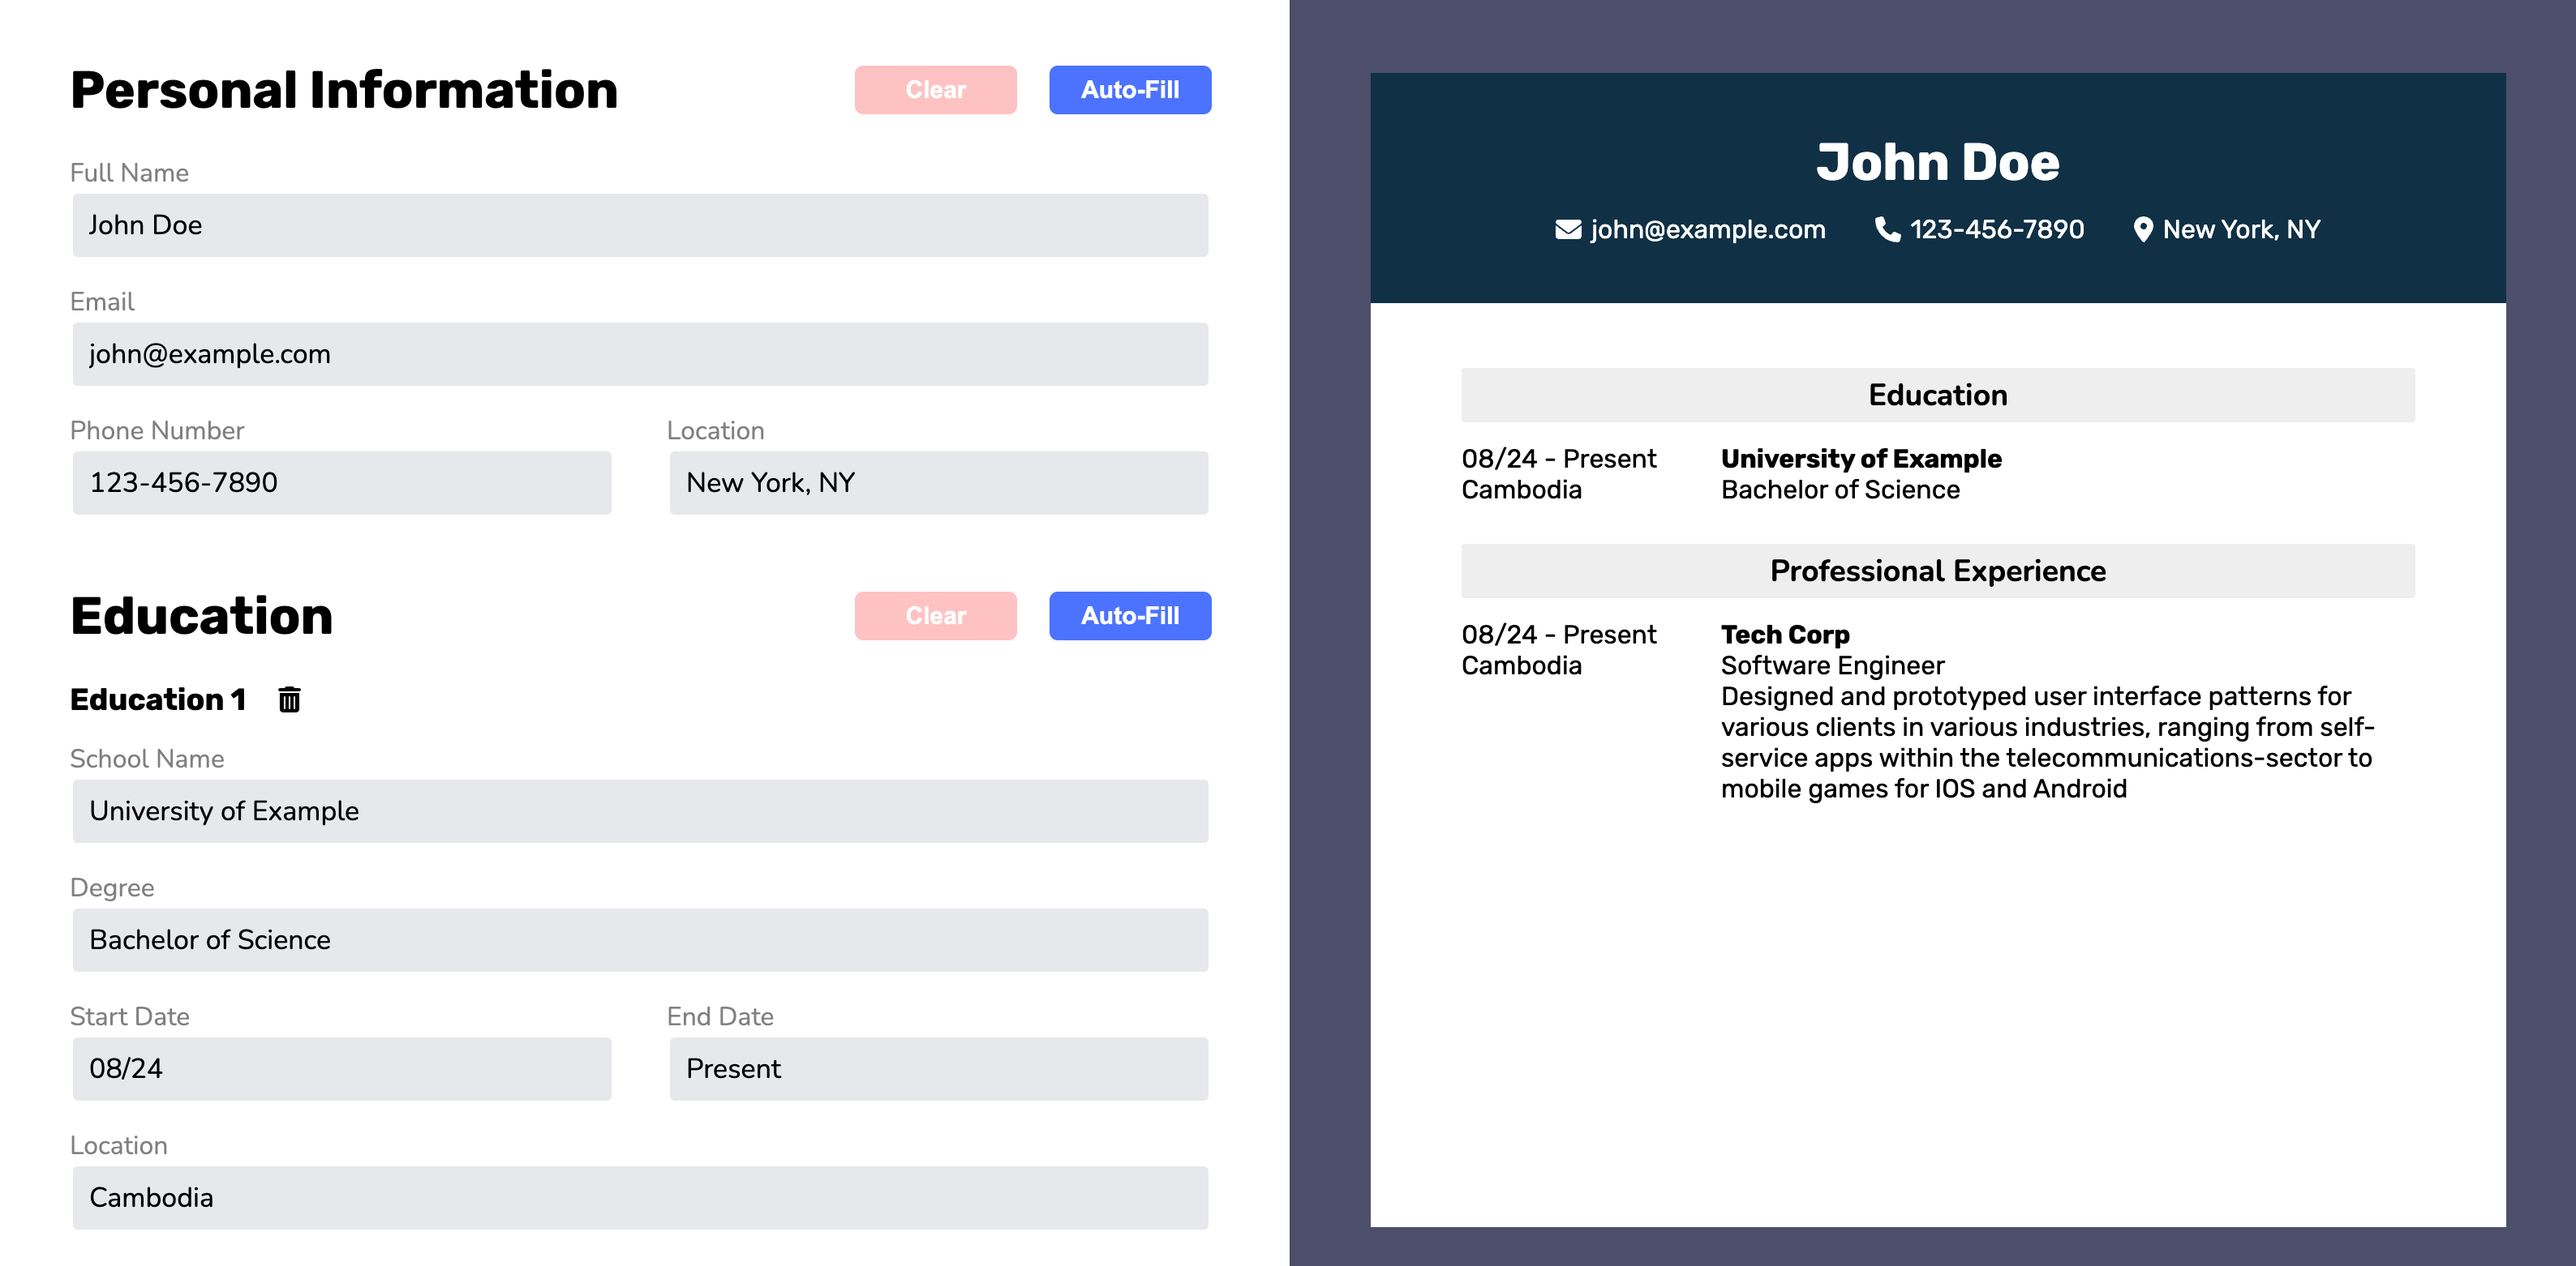
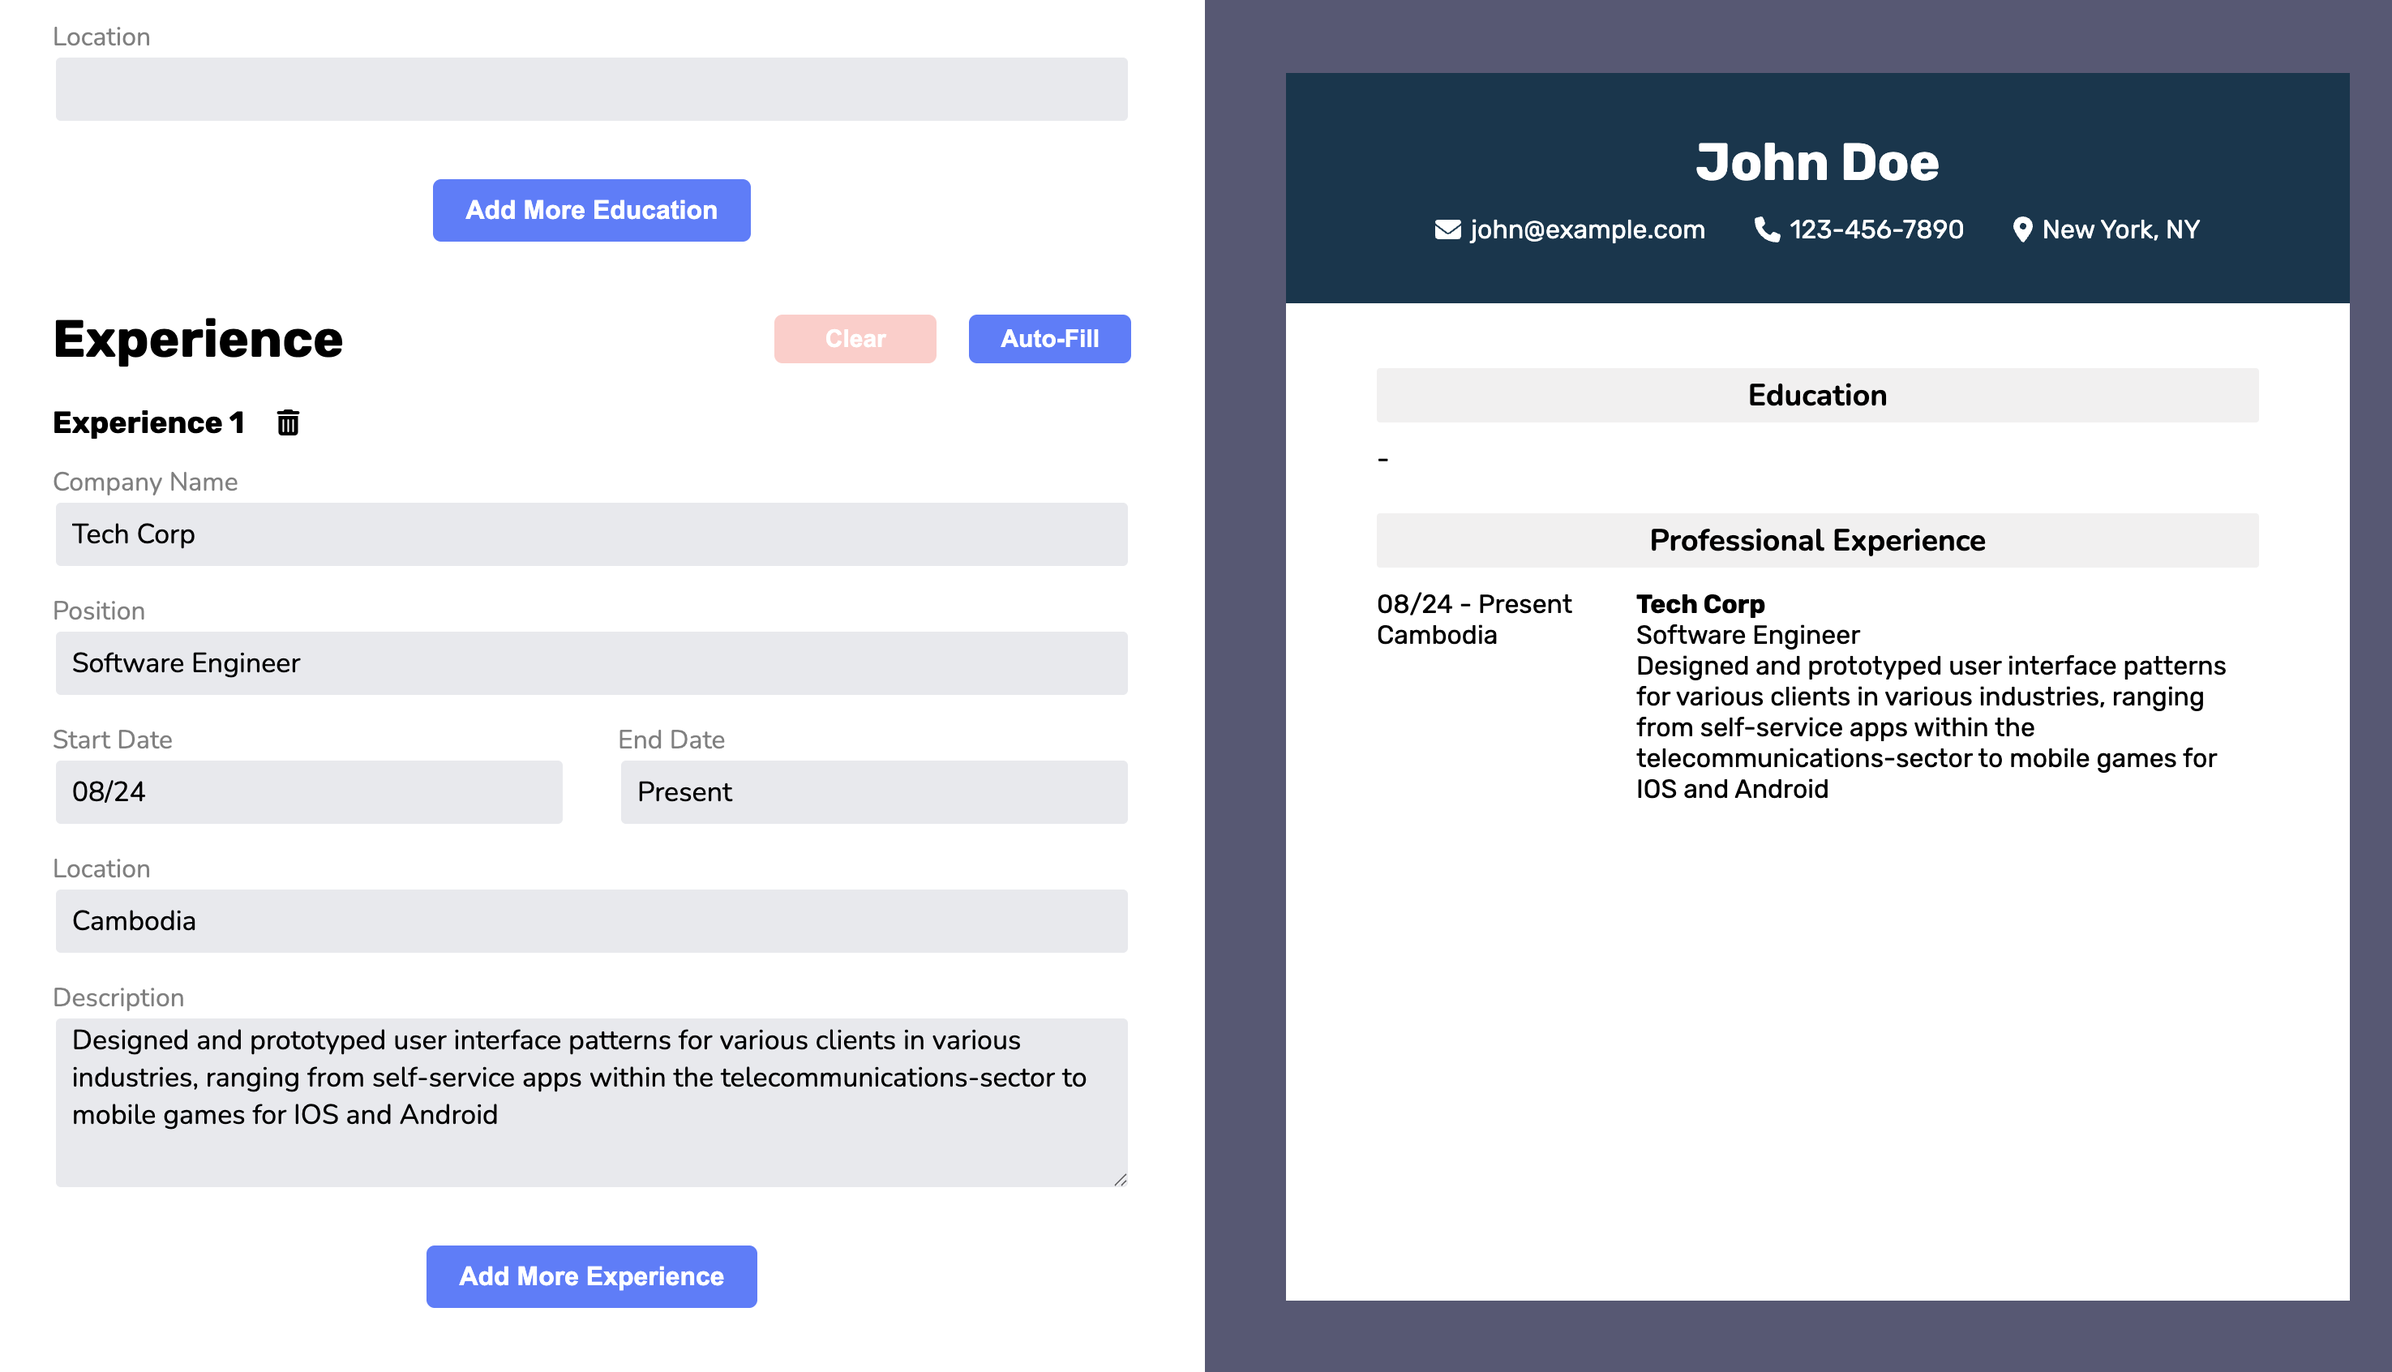
Basic layout 1

diff --git a/src/components/ExperienceInfos.jsx b/src/components/ExperienceInfos.jsx
@@ -1,0 +1,74 @@
+
+export default function ExperienceInfos({onChange,values}) {
+    return (
+        <>
+            <div className="education-heading">
+                <div>Experience {}</div>
+                <img src="src/assets/delete-outline.svg" alt="bin icon" />
+            </div>
+            <div className="input-container">
+                <label htmlFor="companyName">Company Name</label>
+                <input 
+                    type="text" 
+                    id="companyName" 
+                    name="companyName"
+                    onChange={onChange}
+                    value={values?.companyName || ""}
+                    />
+            </div>
+            <div className="input-container">
+                <label htmlFor="position">Position</label>
+                <input 
+                    type="text" 
+                    id="position" 
+                    name="position"
+                    onChange={onChange}
+                    value={values?.position || ""}
+                    />
+            </div>
+            <div className="two-input-container">
+                <div className="input-container">
+                    <label htmlFor="startDate">Start Date</label>
+                    <input 
+                        type="text" 
+                        id="startDate" 
+                        name="startDate"
+                        onChange={onChange}
+                        value={values?.startDate || ""}
+                        />
+                </div>
+                <div className="input-container">
+                    <label htmlFor="endDate">End Date</label>
+                    <input 
+                        type="text" 
+                        id="endDate" 
+                        name="endDate"
+                        onChange={onChange}
+                        value={values?.endDate || ""}
+                        />
+                </div>
+            </div>
+            <div className="input-container">
+                <label htmlFor="location">Location</label>
+                <input 
+                    type="text" 
+                    id="location" 
+                    name="location"
+                    onChange={onChange}
+                    value={values?.location || ""}
+                    />
+            </div>
+            <div className="input-container">
+                <label htmlFor="description">Description</label>
+                <input 
+                    type="text" 
+                    id="description" 
+                    name="description"
+                    onChange={onChange}
+                    value={values?.description || ""}
+                    />
+            </div>
+            <button className="addEducation">Add New Education</button>
+        </>
+    );
+}

diff --git a/src/components/EducationInfos.jsx b/src/components/EducationInfos.jsx
@@ -1,0 +1,64 @@
+
+export default function EducationInfos({onChange,values}) {
+    return (
+        <>
+            <div className="education-heading">
+                <div>Education {}</div>
+                <img src="src/assets/delete-outline.svg" alt="bin icon" />
+            </div>
+            <div className="input-container">
+                <label htmlFor="schoolName">School Name</label>
+                <input 
+                    type="text" 
+                    id="schoolName" 
+                    name="schoolName"
+                    onChange={onChange}
+                    value={values?.schoolName || ""}
+                    />
+            </div>
+            <div className="input-container">
+                <label htmlFor="location">location</label>
+                <input 
+                    type="text" 
+                    id="location" 
+                    name="location"
+                    onChange={onChange}
+                    value={values?.location || ""}
+                    />
+            </div>
+            <div className="two-input-container">
+                <div className="input-container">
+                    <label htmlFor="startDate">Start Date</label>
+                    <input 
+                        type="text" 
+                        id="startDate" 
+                        name="startDate"
+                        onChange={onChange}
+                        value={values?.startDate || ""}
+                        />
+                </div>
+                <div className="input-container">
+                    <label htmlFor="endDate">End Date</label>
+                    <input 
+                        type="text" 
+                        id="endDate" 
+                        name="endDate"
+                        onChange={onChange}
+                        value={values?.endDate || ""}
+                        />
+                </div>
+            </div>
+            <div className="input-container">
+                <label htmlFor="location">Location</label>
+                <input 
+                    type="text" 
+                    id="location" 
+                    name="location"
+                    onChange={onChange}
+                    value={values?.location || ""}
+                    />
+            </div>
+            <button className="addEducation">Add New Education</button>
+        </>
+    );
+}

diff --git a/src/App.css b/src/App.css
@@ -32,6 +32,11 @@ input {
   margin-bottom: 20px;
 }
 
+/* App display */
+.app-display {
+  display: flex;
+}
+
 .section-heading {
   display: flex;
   justify-content: space-between;
@@ -67,4 +72,80 @@ input {
 
 .two-input-container .input-container {
   flex: 1;
+}
+
+/* Education field */
+.education-heading {
+  display: flex;
+  gap: 10px;
+  margin-bottom: 20px;
+  align-items: center;
+}
+
+.education-heading > div {
+  font-size: 16px;
+  font-weight: 600;
+}
+
+.education-heading img {
+  height: 20px;
+}
+
+.addEducation {
+  margin: 20px auto;
+  width: 250px;
+  color: white;
+  background-color: cornflowerblue;
+}
+
+/* CV Display */
+.output-field {
+  background-color: darkgray;
+  width: 50%;
+  height: 100vh;
+  padding: 3% 3% 3% 3%;
+}
+
+.cv-display {
+  width: 100%;
+  height: 100%;
+}
+
+.cv-personal-infos {
+  width: 100%;
+  height: min(120px);
+  background-color: rgb(36, 57, 95);
+  color: white;
+  padding: 25px;
+  display: flex;
+  flex-direction: column;
+  justify-content: center;
+  gap: 10px;
+}
+
+.cv-personal-infos .user-name {
+  font-size: 20px;
+  font-weight: 700;
+  text-align: center;
+}
+
+.cv-personal-infos .user-contact {
+  display: flex;
+  justify-content: center;
+  gap: 15px;
+}
+
+.cv-personal-infos .user-contact > div {
+  display: flex;
+  align-items: center;
+}
+
+.cv-personal-infos .user-contact > div img {
+  height: 20px;
+  filter: invert(1) sepia(1) saturate(5) hue-rotate(180deg);
+}
+
+.cv-edu-exp {
+  height: 600px;
+  background-color: white;
 }

diff --git a/src/App.jsx b/src/App.jsx
@@ -2,6 +2,9 @@ import { useState } from 'react'
 import './App.css'
 import PersonalInfos from './components/PersonalInfos'
 import SectionTitle from './components/SectionTItle';
+import EducationInfos from './components/EducationInfos'
+import ExperienceInfos from './components/ExperienceInfos';
+import OutputCV from './components/OutputCV';
 
 function App() {
 
@@ -32,17 +35,25 @@ function App() {
   }
 
   return (
-    <>
+    <div className='app-display'>
       <div className="input-field">
         <div className="personal-infos input-container">
           <SectionTitle title="Personal Information" onClear={handleClear} onAutoFill={handleAutoFill}/>
           <PersonalInfos values={userData} onChange={handleInputChange}/>
         </div>
+        <div className="education-infos input-container">
+          <SectionTitle title="Education" onClear={handleClear} onAutoFill={handleAutoFill}/>
+          <EducationInfos values={userEducation} onChange={handleInputChange}/>
+        </div>
+        <div className="experience-infos input-container">
+          <SectionTitle title="Experience" onClear={handleClear} onAutoFill={handleAutoFill}/>
+          <ExperienceInfos values={userExperience} onChange={handleInputChange}/>
+        </div>
       </div>
       <div className="output-field">
-
+        <OutputCV />
       </div>
-    </>
+    </div>
   )
 }
 

diff --git a/src/components/OutputCV.jsx b/src/components/OutputCV.jsx
@@ -1,0 +1,28 @@
+export default function OutputCV() {
+    return (
+        <div className="cv-display">
+            <div className="cv-personal-infos">
+                <div className="user-name">
+                    My Name
+                </div>
+                <div className="user-contact">
+                    <div className="user-email">
+                        <img src="src/assets/email-outline.svg" alt="email icon" />
+                        <p></p>
+                    </div>
+                    <div className="user-phone">
+                        <img src="src/assets/cellphone.svg" alt="phone icon" />
+                        <p></p>
+                    </div>
+                    <div className="user-location">
+                        <img src="src/assets/map-marker-outline.svg" alt="address icon" />
+                        <p></p>
+                    </div>
+                </div>
+            </div>
+            <div className="cv-edu-exp">
+
+            </div>
+        </div>
+    )
+}
